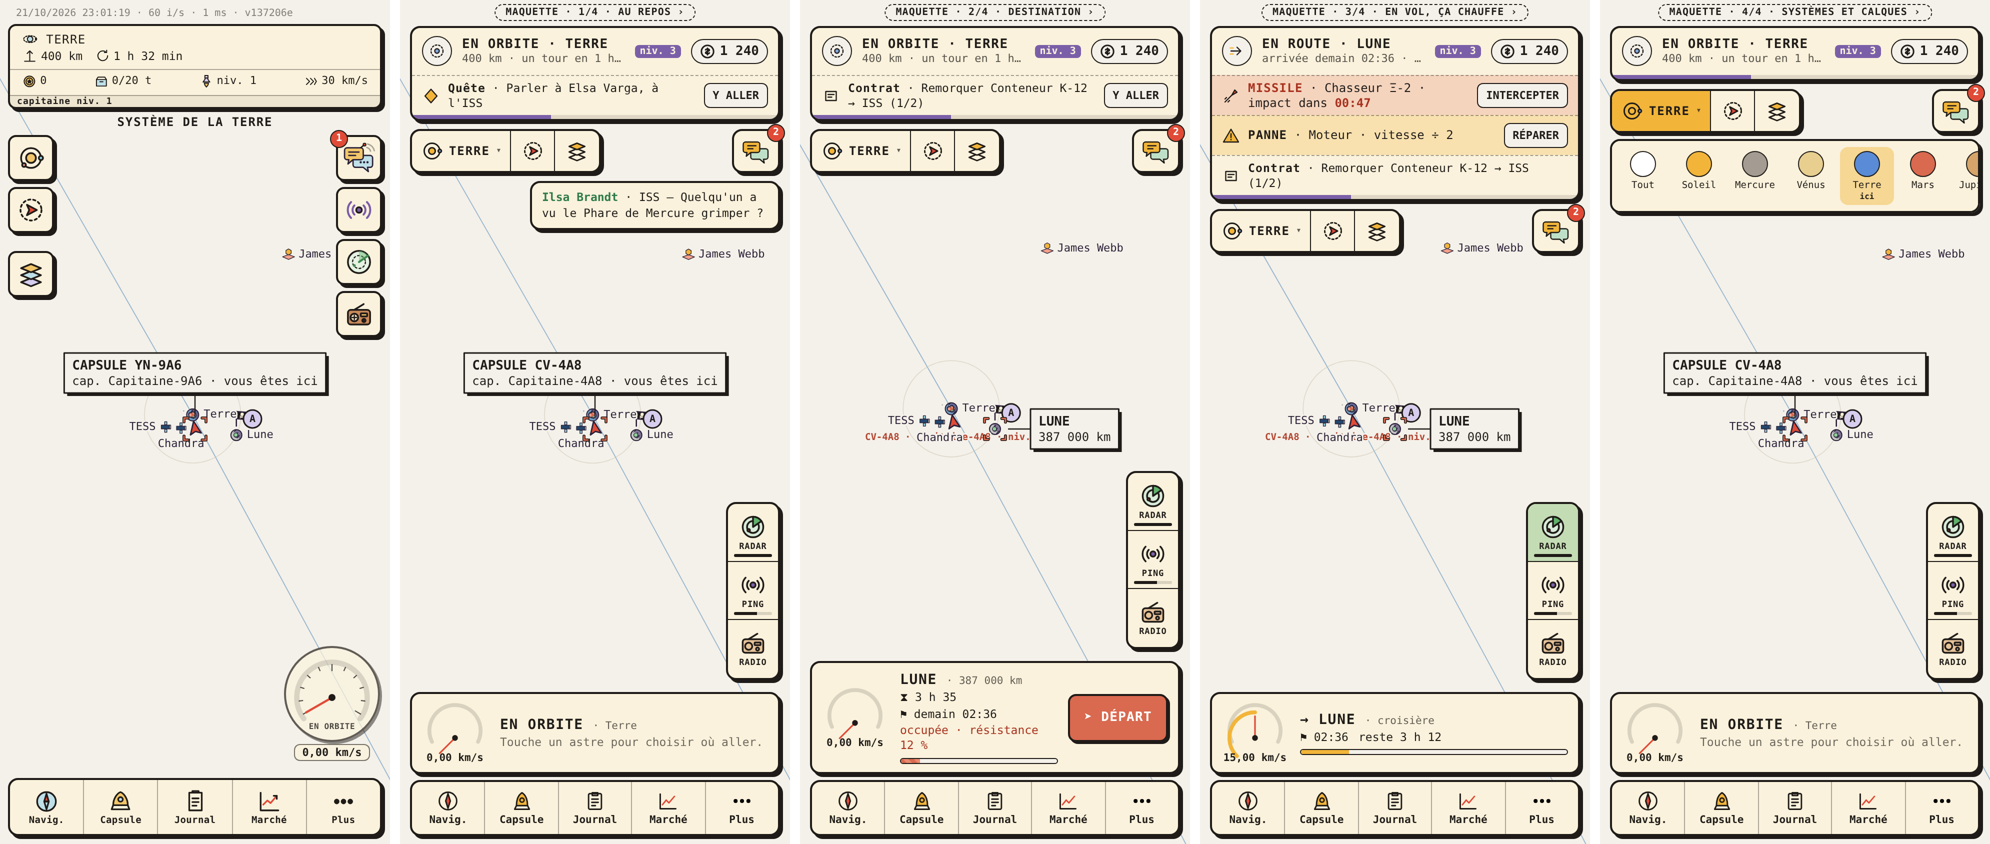
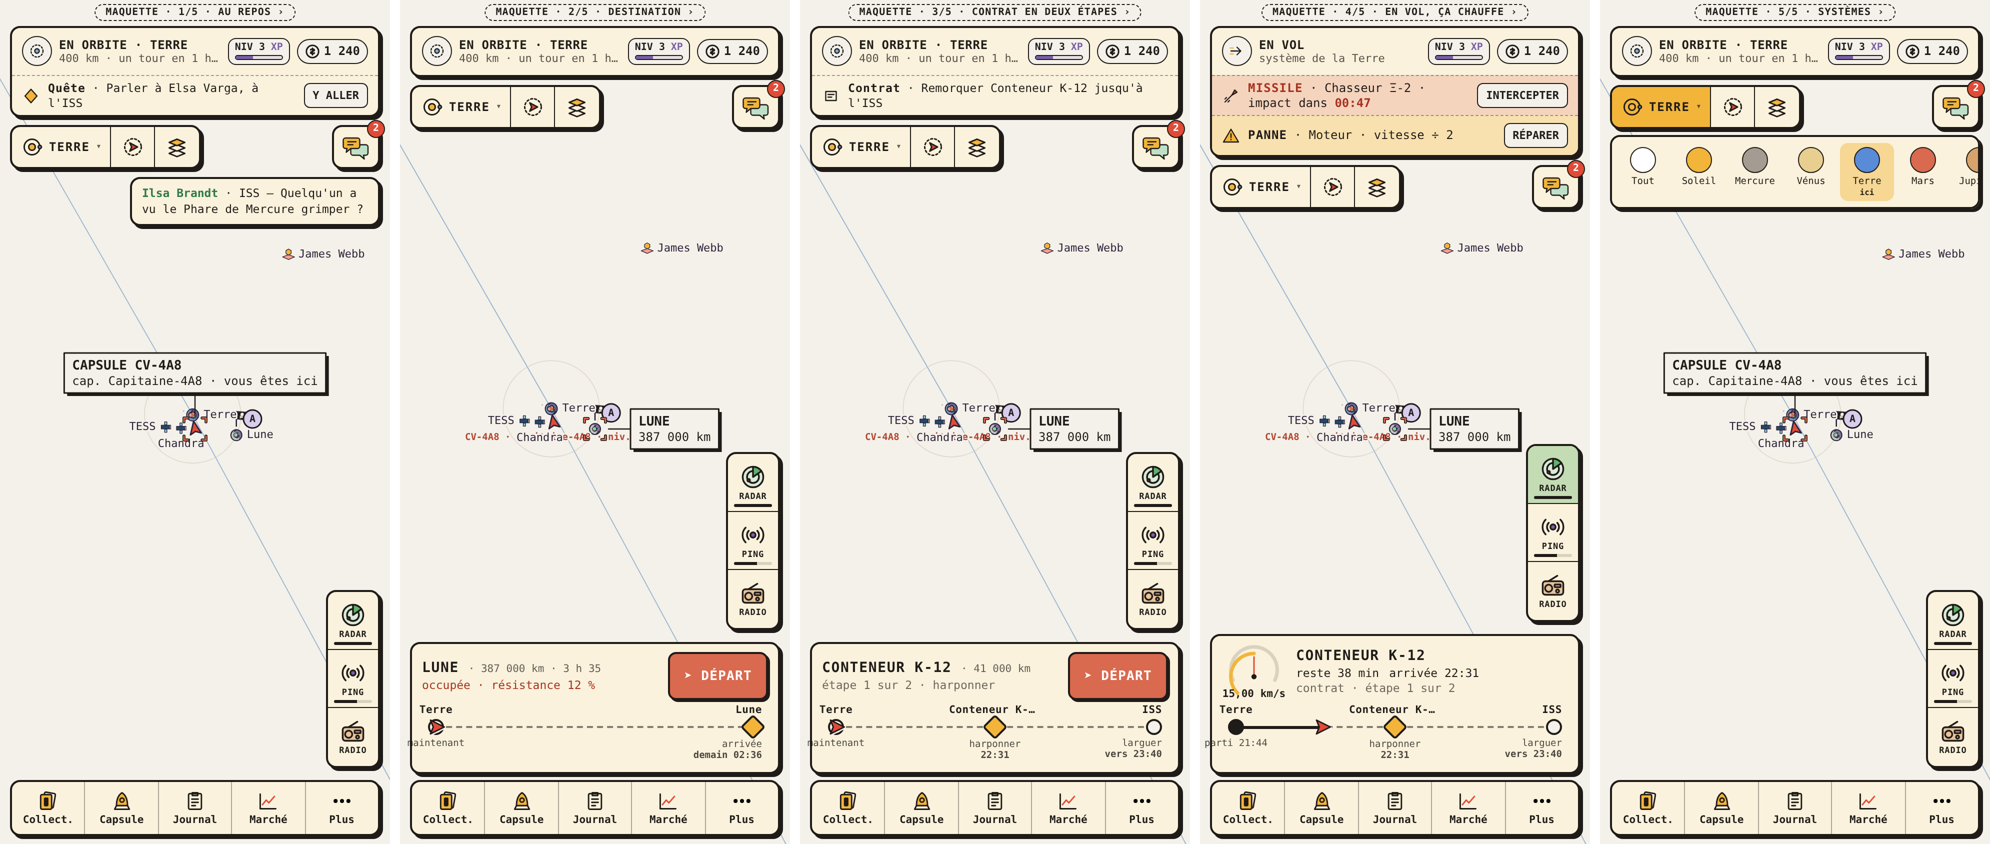
Maquette de la carte : console du bas seulement avec une destination, feuille de route en frise, jauge d'XP nommée, Collections à la place de Navig.
Claude-Session: https://claude.ai/code/session_01F6ocbpycmQ7YQZPxUJPY13

diff --git a/maquette-carte.html b/maquette-carte.html
@@ -34,17 +34,20 @@
 
       /* 1. La console du haut : où l'on est, ce qu'on a, ce qui presse. */
       #console { position: fixed; top: calc(26px + var(--haut)); left: var(--g); right: var(--g); z-index: 5; overflow: hidden; }
-      #console .statut { display: flex; align-items: center; gap: 10px; padding: 8px 10px 9px; }
+      #console .statut { display: flex; align-items: center; gap: 7px; padding: 8px 10px 9px; }
       #console .ou { flex: 1; min-width: 0; }
-      #console .ou b { display: block; font-size: 13px; letter-spacing: 0.06em; white-space: nowrap; overflow: hidden; text-overflow: ellipsis; }
+      #console .ou b { display: block; font-size: 12px; letter-spacing: 0.03em; white-space: nowrap; overflow: hidden; text-overflow: ellipsis; }
       #console .ou small { display: block; font-size: 11px; opacity: 0.75; white-space: nowrap; overflow: hidden; text-overflow: ellipsis; }
       .phase { flex: none; width: 30px; height: 30px; display: grid; place-items: center; border: 1.5px solid var(--encre); border-radius: 50%; background: var(--fond); }
       .phase svg { width: 18px; height: 18px; }
-      .credits { flex: none; display: flex; align-items: center; gap: 5px; padding: 4px 8px; font-size: 13px; font-weight: bold; border: 1.5px solid var(--encre); border-radius: 14px; background: var(--fond); }
+      .credits { flex: none; display: flex; align-items: center; gap: 4px; padding: 4px 7px; font-size: 12px; font-weight: bold; border: 1.5px solid var(--encre); border-radius: 14px; background: var(--fond); }
       .credits svg { width: 15px; height: 15px; }
-      .xp { position: relative; height: 4px; background: color-mix(in srgb, var(--encre) 12%, transparent); }
-      .xp i { position: absolute; inset: 0 auto 0 0; width: 38%; background: var(--violet); }
-      .niveau { flex: none; font-size: 10px; font-weight: bold; padding: 1px 5px; border-radius: 4px; color: var(--creme); background: var(--violet); }
+      /* Le niveau du capitaine et son XP : la jauge dans la pastille, avec son nom ; la toucher ouvre le Profil. */
+      .niveau { flex: none; display: flex; flex-direction: column; gap: 2px; width: 62px; white-space: nowrap; padding: 3px 6px 4px; border: 1.5px solid var(--encre); border-radius: 8px; background: var(--fond); }
+      .niveau b { display: flex; justify-content: space-between; font-size: 10px; }
+      .niveau b span { color: var(--violet); }
+      .niveau .jauge-xp { height: 5px; border: 1px solid var(--encre); border-radius: 3px; overflow: hidden; background: color-mix(in srgb, var(--violet) 12%, var(--fond)); }
+      .niveau .jauge-xp i { display: block; width: 38%; height: 100%; background: var(--violet); }
       .alerte { display: flex; align-items: center; gap: 8px; min-height: 40px; padding: 4px 10px; font-size: 12px; border-top: 1.5px dashed color-mix(in srgb, var(--encre) 40%, transparent); }
       .alerte svg { flex: none; width: 18px; height: 18px; }
       .alerte span { flex: 1; min-width: 0; line-height: 1.25; }
@@ -94,9 +97,26 @@
       #instruments .charge i { display: block; height: 100%; background: var(--encre); }
 
       /* 4. La console du bas : la vitesse et le trajet ensemble, posés sur la barre d'onglets. */
-      #bord { position: fixed; left: var(--g); right: var(--g); bottom: calc(70px + var(--bas)); z-index: 5; display: flex; align-items: center; gap: 10px; padding: 8px 10px 8px 8px; }
-      .compteur { position: relative; flex: none; width: 70px; height: 62px; }
-      .compteur svg { width: 64px; height: 45px; margin: 0 auto; overflow: visible; }
+      #bord { position: fixed; left: var(--g); right: var(--g); bottom: calc(70px + var(--bas)); z-index: 5; padding: 8px 10px 6px; }
+      #bord .tete { display: flex; align-items: center; gap: 10px; }
+      /* La feuille de route : une frise du départ à l'arrivée, avec les étapes, et la capsule dessus en temps réel. */
+      .frise { position: relative; height: 62px; margin: 4px 14px 0; }
+      .frise .rail, .frise .fait { position: absolute; top: 22px; height: 0; border-top: 2px dashed color-mix(in srgb, var(--encre) 55%, transparent); }
+      .frise .fait { border-top: 3px solid var(--encre); top: 21.5px; }
+      .frise .etape { position: absolute; top: 0; transform: translateX(-50%); display: flex; flex-direction: column; align-items: center; width: 92px; text-align: center; }
+      .frise .etape b { font-size: 10.5px; letter-spacing: 0.03em; white-space: nowrap; overflow: hidden; text-overflow: ellipsis; max-width: 92px; height: 13px; }
+      .frise .etape i { width: 16px; height: 16px; margin-top: 2px; border: 2px solid var(--encre); border-radius: 50%; background: var(--fond); }
+      .frise .etape.passee i { background: var(--encre); }
+      .frise .etape.but i { width: 18px; height: 18px; margin-top: 1px; border-radius: 3px; transform: rotate(45deg); background: var(--moutarde); }
+      .frise .etape small { margin-top: 3px; font-size: 9.5px; line-height: 1.2; opacity: 0.8; }
+      .frise .etape small em { font-style: normal; font-weight: bold; opacity: 1; }
+      .frise .etape:first-child { align-items: flex-start; text-align: left; transform: none; margin-left: -8px; }
+      .frise .etape:first-child i { margin-left: 0; }
+      .frise .etape.fin { align-items: flex-end; text-align: right; transform: translateX(-100%); margin-left: 8px; }
+      .frise .capsule { position: absolute; top: 12px; width: 22px; height: 22px; transform: translateX(-50%); }
+      .frise .capsule svg { width: 22px; height: 22px; filter: drop-shadow(1px 1px 0 var(--fond)); }
+      .compteur { position: relative; flex: none; width: 64px; height: 56px; }
+      .compteur svg { width: 58px; height: 41px; margin: 0 auto; overflow: visible; }
       .compteur b { position: absolute; left: -4px; right: -4px; bottom: 0; font-size: 10.5px; text-align: center; font-variant-numeric: tabular-nums; }
       .compteur .arc { fill: none; stroke: color-mix(in srgb, var(--encre) 15%, transparent); stroke-width: 6; stroke-linecap: round; }
       .compteur .phase-arc { fill: none; stroke-width: 6; stroke-linecap: round; }
@@ -137,11 +157,10 @@
       <div class="statut">
         <span class="phase" id="phase"></span>
         <div class="ou"><b id="ou"></b><small id="detail"></small></div>
-        <span class="niveau">niv. 3</span>
+        <span class="niveau"><b>NIV 3<span>XP</span></b><span class="jauge-xp"><i></i></span></span>
         <span class="credits"><svg viewBox="0 0 16 16" class="trait"><circle cx="8" cy="8" r="6.5"/><path d="M8 4.5v7M6 6.2c0-1 4-1 4 .3 0 1.4-4 1.3-4 2.8 0 1.3 4 1.3 4 .2"/></svg>1 240</span>
       </div>
       <div id="alertes"></div>
-      <div class="xp"><i></i></div>
     </div>
 
     <!-- 2. Rangée de la vue -->
@@ -181,16 +200,19 @@
 
     <!-- 4. Console du bas -->
     <div id="bord" class="cadre">
-      <div class="compteur">
+      <div class="tete">
+      <div class="compteur" id="compteur">
         <svg viewBox="0 0 100 70"><path class="arc" d="M14 62a40 40 0 1 1 72 0"/><path class="phase-arc" id="arc" d=""/><line class="aiguille" id="aiguille" x1="50" y1="56" x2="50" y2="22"/><circle cx="50" cy="56" r="4.5" style="fill:var(--encre)"/></svg>
         <b id="vitesse">0,00 km/s</b>
       </div>
       <div class="infos" id="infos"></div>
       <button type="button" class="action" id="action" hidden></button>
+      </div>
+      <div class="frise" id="frise"></div>
     </div>
 
     <nav id="onglets" class="cadre">
-      <button type="button"><svg viewBox="0 0 24 24" class="trait"><circle cx="12" cy="12" r="9.5"/><path d="M12 4 14.5 12 12 20 9.5 12z" style="fill:var(--rouge)"/></svg>Navig.</button>
+      <button type="button"><svg viewBox="0 0 24 24" class="trait"><rect x="7" y="3" width="12" height="16" rx="1.5" transform="rotate(10 13 11)" style="fill:var(--creme)"/><rect x="4" y="5" width="12" height="16" rx="1.5" style="fill:var(--moutarde)"/><path d="M10 9.5v7"/><rect x="8.3" y="9" width="3.4" height="8" rx="0.5" style="fill:var(--encre)"/></svg>Collect.</button>
       <button type="button"><svg viewBox="0 0 24 24" class="trait"><path d="M12 3c4 2.5 6 7 6 14H6c0-7 2-11.5 6-14z" style="fill:var(--moutarde)"/><circle cx="12" cy="11" r="2.3"/><path d="M6 17l-2 4h16l-2-4"/></svg>Capsule</button>
       <button type="button"><svg viewBox="0 0 24 24" class="trait"><rect x="5" y="4" width="14" height="17" rx="1.5"/><path d="M9 3h6v3H9zM8.5 10h7M8.5 13.5h7M8.5 17h4"/></svg>Journal</button>
       <button type="button"><svg viewBox="0 0 24 24" class="trait"><path d="M3.5 20.5h17M3.5 20.5v-16"/><path d="M6 16l4-5 3 3 6-7" style="stroke:var(--rouge)"/></svg>Marché</button>
@@ -212,25 +234,33 @@
       $('#systemes').innerHTML = SYSTEMES.map(([n, c]) => `<button type="button" class="${n === 'Terre' ? 'ici' : ''}"><i style="background:${c}"></i>${n}${n === 'Terre' ? '<small>ici</small>' : ''}</button>`).join('')
 
       const alerte = (classe, icone, texte, bouton) => `<div class="alerte ${classe}">${ICONES[icone]}<span>${texte}</span>${bouton ? `<em>${bouton}</em>` : ''}</div>`
+      // La frise : des étapes (nom, sous-titre) le long du rail ; position de la capsule (0 à 1) ; jusqu'où c'est fait.
+      const CAPSULE = '<svg viewBox="0 0 24 24"><path d="M21 12 6 19.5 9 12 6 4.5z" style="fill:var(--rouge);stroke:var(--encre);stroke-width:1.6;stroke-linejoin:round"/></svg>'
+      function frise(etapes, capsule) {
+        const x = (k) => (100 * k) / (etapes.length - 1)
+        return `<div class="rail" style="left:0;right:0"></div><div class="fait" style="left:0;width:${(100 * capsule).toFixed(1)}%"></div>`
+          + etapes.map((e, k) => `<div class="etape${k === etapes.length - 1 ? ' fin' : ''}${e.passee ? ' passee' : ''}${e.but ? ' but' : ''}" style="left:${x(k)}%"><b>${e.nom}</b><i></i><small>${e.sous}</small></div>`).join('')
+          + `<span class="capsule" style="left:${(100 * capsule).toFixed(1)}%">${CAPSULE}</span>`
+      }
       const SCENES = [
         { titre: 'AU REPOS', fond: 'carte-repos', phase: 'orbite', ou: 'EN ORBITE · TERRE', detail: '400 km · un tour en 1 h 32',
-          alertes: alerte('objectif', 'quete', '<b>Quête</b> · Parler à Elsa Varga, à l\'ISS', 'Y ALLER'),
-          vitesse: 0, couleur: 'var(--moutarde)', vtexte: '0,00 km/s',
-          infos: '<div class="nom">EN ORBITE <small>· Terre</small></div><div class="indice">Touche un astre pour choisir où aller.</div>', bulle: true },
+          alertes: alerte('objectif', 'quete', '<b>Quête</b> · Parler à Elsa Varga, à l\'ISS', 'Y ALLER'), bulle: true },
         { titre: 'DESTINATION', fond: 'carte-lune', phase: 'orbite', ou: 'EN ORBITE · TERRE', detail: '400 km · un tour en 1 h 32',
-          alertes: alerte('objectif', 'contrat', '<b>Contrat</b> · Remorquer Conteneur K-12 → ISS (1/2)', 'Y ALLER'),
-          vitesse: 0, couleur: 'var(--moutarde)', vtexte: '0,00 km/s',
-          infos: '<div class="nom">LUNE <small>· 387 000 km</small></div><div class="vals"><span>⧗ 3 h 35</span><span>⚑ demain 02:36</span></div><div class="occupee">occupée · résistance 12 %</div><div class="barre"><i style="width:12%"></i></div>',
-          action: '➤ DÉPART' },
-        { titre: 'EN VOL, ÇA CHAUFFE', fond: 'carte-lune', phase: 'vol', ou: 'EN ROUTE · LUNE', detail: 'arrivée demain 02:36 · reste 3 h 12',
+          alertes: '',
+          bord: { infos: '<div class="nom">LUNE <small>· 387 000 km · 3 h 35</small></div><div class="occupee">occupée · résistance 12 %</div>', action: '➤ DÉPART',
+            frise: frise([{ nom: 'Terre', sous: 'maintenant' }, { nom: 'Lune', sous: 'arrivée<br><em>demain 02:36</em>', but: true }], 0) } },
+        { titre: 'CONTRAT EN DEUX ÉTAPES', fond: 'carte-lune', phase: 'orbite', ou: 'EN ORBITE · TERRE', detail: '400 km · un tour en 1 h 32',
+          alertes: alerte('objectif', 'contrat', '<b>Contrat</b> · Remorquer Conteneur K-12 jusqu\'à l\'ISS', ''),
+          bord: { infos: '<div class="nom">CONTENEUR K-12 <small>· 41 000 km</small></div><div class="indice">étape 1 sur 2 · harponner</div>', action: '➤ DÉPART',
+            frise: frise([{ nom: 'Terre', sous: 'maintenant' }, { nom: 'Conteneur K-12', sous: 'harponner<br><em>22:31</em>', but: true }, { nom: 'ISS', sous: 'larguer<br><em>vers 23:40</em>' }], 0) } },
+        { titre: 'EN VOL, ÇA CHAUFFE', fond: 'carte-lune', phase: 'vol', ou: 'EN VOL', detail: 'système de la Terre',
           alertes: alerte('missile', 'missile', '<b>MISSILE</b> · Chasseur Ξ-2 · impact dans <span class="compte">00:47</span>', 'INTERCEPTER')
-            + alerte('panne', 'panne', '<b>PANNE</b> · Moteur · vitesse ÷ 2', 'RÉPARER')
-            + alerte('objectif', 'contrat', '<b>Contrat</b> · Remorquer Conteneur K-12 → ISS (1/2)'),
-          vitesse: 0.5, couleur: 'var(--moutarde)', vtexte: '15,00 km/s', radar: true,
-          infos: '<div class="nom">→ LUNE <small>· croisière</small></div><div class="vals"><span>⚑ 02:36</span><span>reste 3 h 12</span></div><div class="barre trajet"><i style="width:18%"></i></div>' },
-        { titre: 'SYSTÈMES ET CALQUES', fond: 'carte-repos', phase: 'orbite', ou: 'EN ORBITE · TERRE', detail: '400 km · un tour en 1 h 32',
-          alertes: '', vitesse: 0, couleur: 'var(--moutarde)', vtexte: '0,00 km/s', systemes: true,
-          infos: '<div class="nom">EN ORBITE <small>· Terre</small></div><div class="indice">Touche un astre pour choisir où aller.</div>' },
+            + alerte('panne', 'panne', '<b>PANNE</b> · Moteur · vitesse ÷ 2', 'RÉPARER'),
+          radar: true,
+          bord: { vitesse: 0.5, couleur: 'var(--moutarde)', vtexte: '15,00 km/s', infos: '<div class="nom">CONTENEUR K-12</div><div class="vals"><span>reste 38 min</span><span>arrivée 22:31</span></div><div class="indice">contrat · étape 1 sur 2</div>',
+            frise: frise([{ nom: 'Terre', sous: 'parti 21:44', passee: true }, { nom: 'Conteneur K-12', sous: 'harponner<br><em>22:31</em>', but: true }, { nom: 'ISS', sous: 'larguer<br><em>vers 23:40</em>' }], 0.27) } },
+        { titre: 'SYSTÈMES', fond: 'carte-repos', phase: 'orbite', ou: 'EN ORBITE · TERRE', detail: '400 km · un tour en 1 h 32',
+          alertes: '', systemes: true },
       ]
       let n = 0
       const arc = (f) => { const a0 = Math.PI * 1.25, a = a0 - f * Math.PI * 1.5, p = (x) => [50 + 40 * Math.cos(x), 56 - 40 * Math.sin(x)]
@@ -242,7 +272,7 @@
         $('#bulle').style.top = `${bas + 60}px`
         $('#systemes').style.top = `${bas + 58}px`
         $('#calques').style.top = `${bas + 58}px`
-        const bord = $('#bord').getBoundingClientRect().top
+        const bord = ($('#bord').hidden ? $('#onglets') : $('#bord')).getBoundingClientRect().top
         $('#instruments').style.top = `${bord - 12 - $('#instruments').offsetHeight}px`
       }
       function afficher() {
@@ -253,13 +283,20 @@
         $('#ou').textContent = s.ou
         $('#detail').textContent = s.detail
         $('#alertes').innerHTML = s.alertes
-        $('#infos').innerHTML = s.infos
-        $('#vitesse').textContent = s.vtexte
-        $('#arc').setAttribute('d', s.vitesse ? arc(s.vitesse) : '')
-        $('#arc').style.stroke = s.couleur
-        $('#aiguille').setAttribute('transform', `rotate(${-135 + 270 * s.vitesse} 50 56)`)
-        $('#action').hidden = !s.action
-        $('#action').textContent = s.action ?? ''
+        const d = s.bord
+        $('#bord').hidden = !d
+        if (d) {
+          $('#infos').innerHTML = d.infos
+          $('#frise').innerHTML = d.frise
+          // Le compteur de vitesse n'est là qu'en vol (au repos, la vitesse ne dit rien).
+          $('#compteur').hidden = d.vitesse === undefined
+          $('#vitesse').textContent = d.vtexte ?? ''
+          $('#arc').setAttribute('d', d.vitesse ? arc(d.vitesse) : '')
+          $('#arc').style.stroke = d.couleur ?? ''
+          $('#aiguille').setAttribute('transform', `rotate(${-135 + 270 * (d.vitesse ?? 0)} 50 56)`)
+          $('#action').hidden = !d.action
+          $('#action').textContent = d.action ?? ''
+        }
         $('#radar').classList.toggle('actif', !!s.radar)
         $('#bulle').hidden = !s.bulle
         $('#systemes').hidden = !s.systemes
